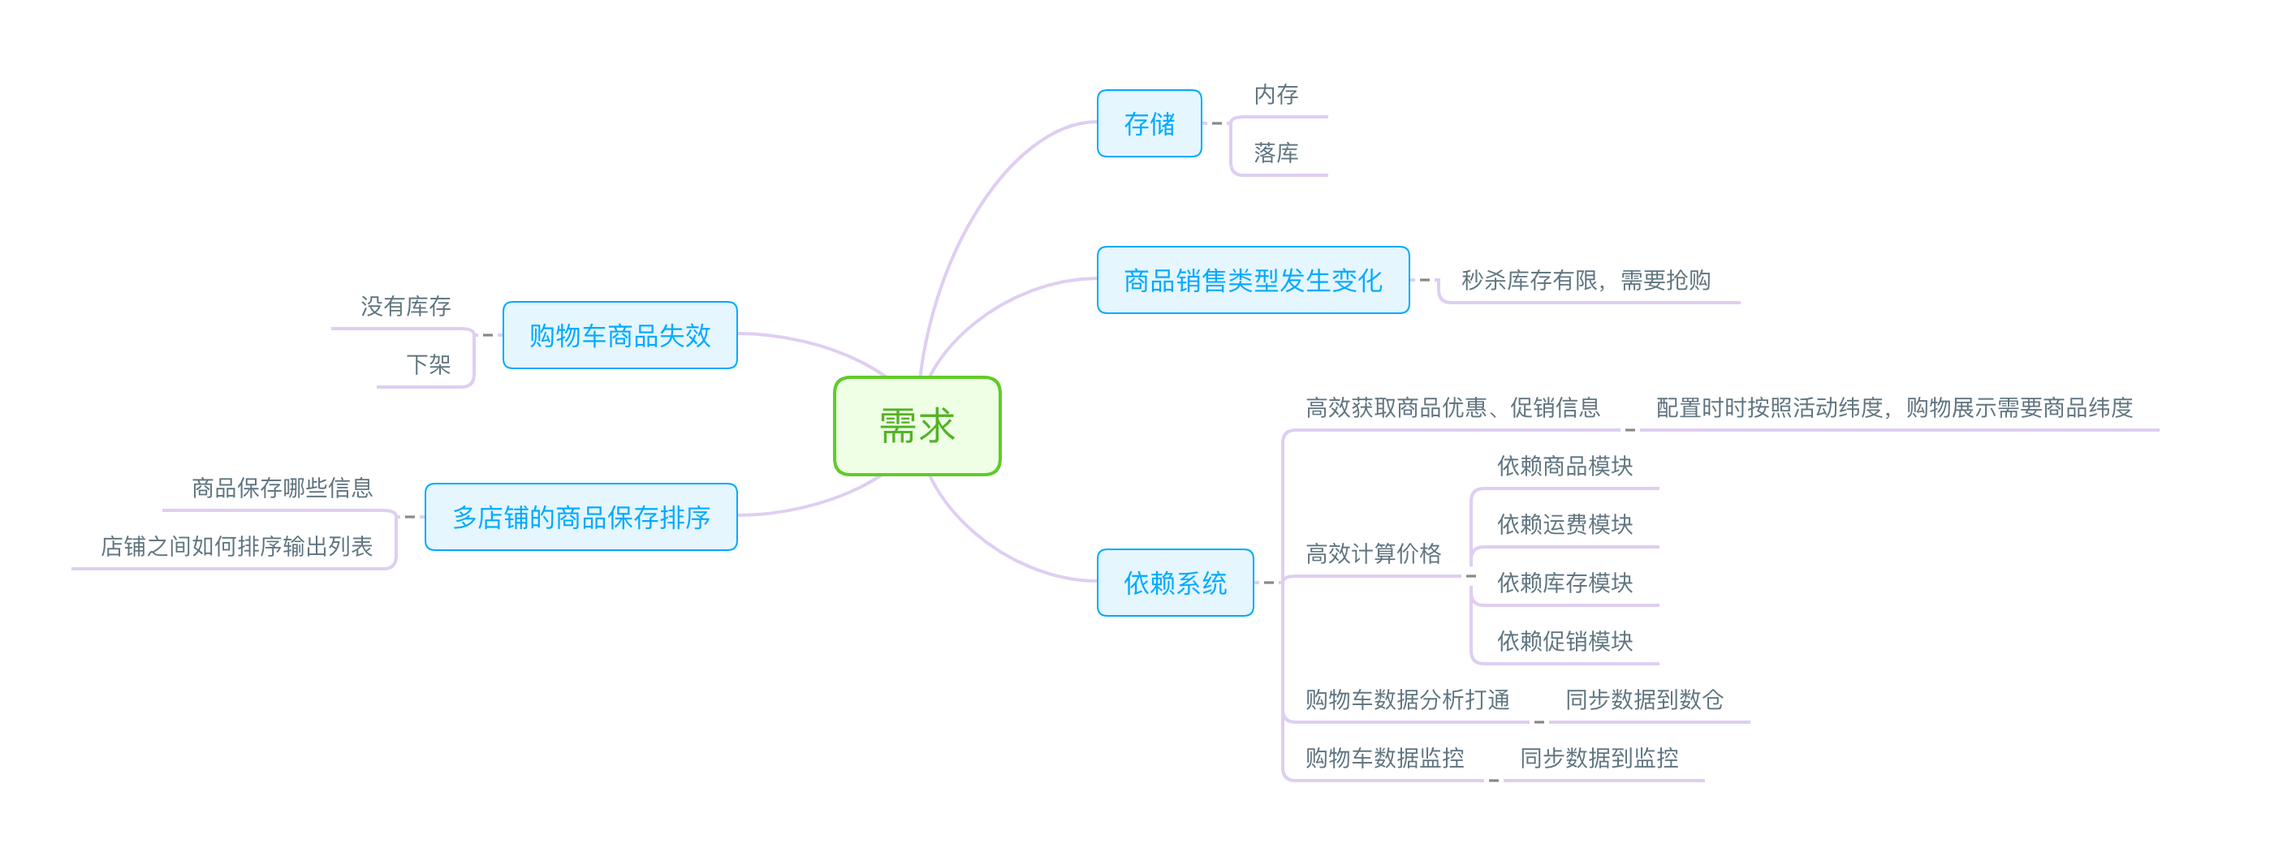
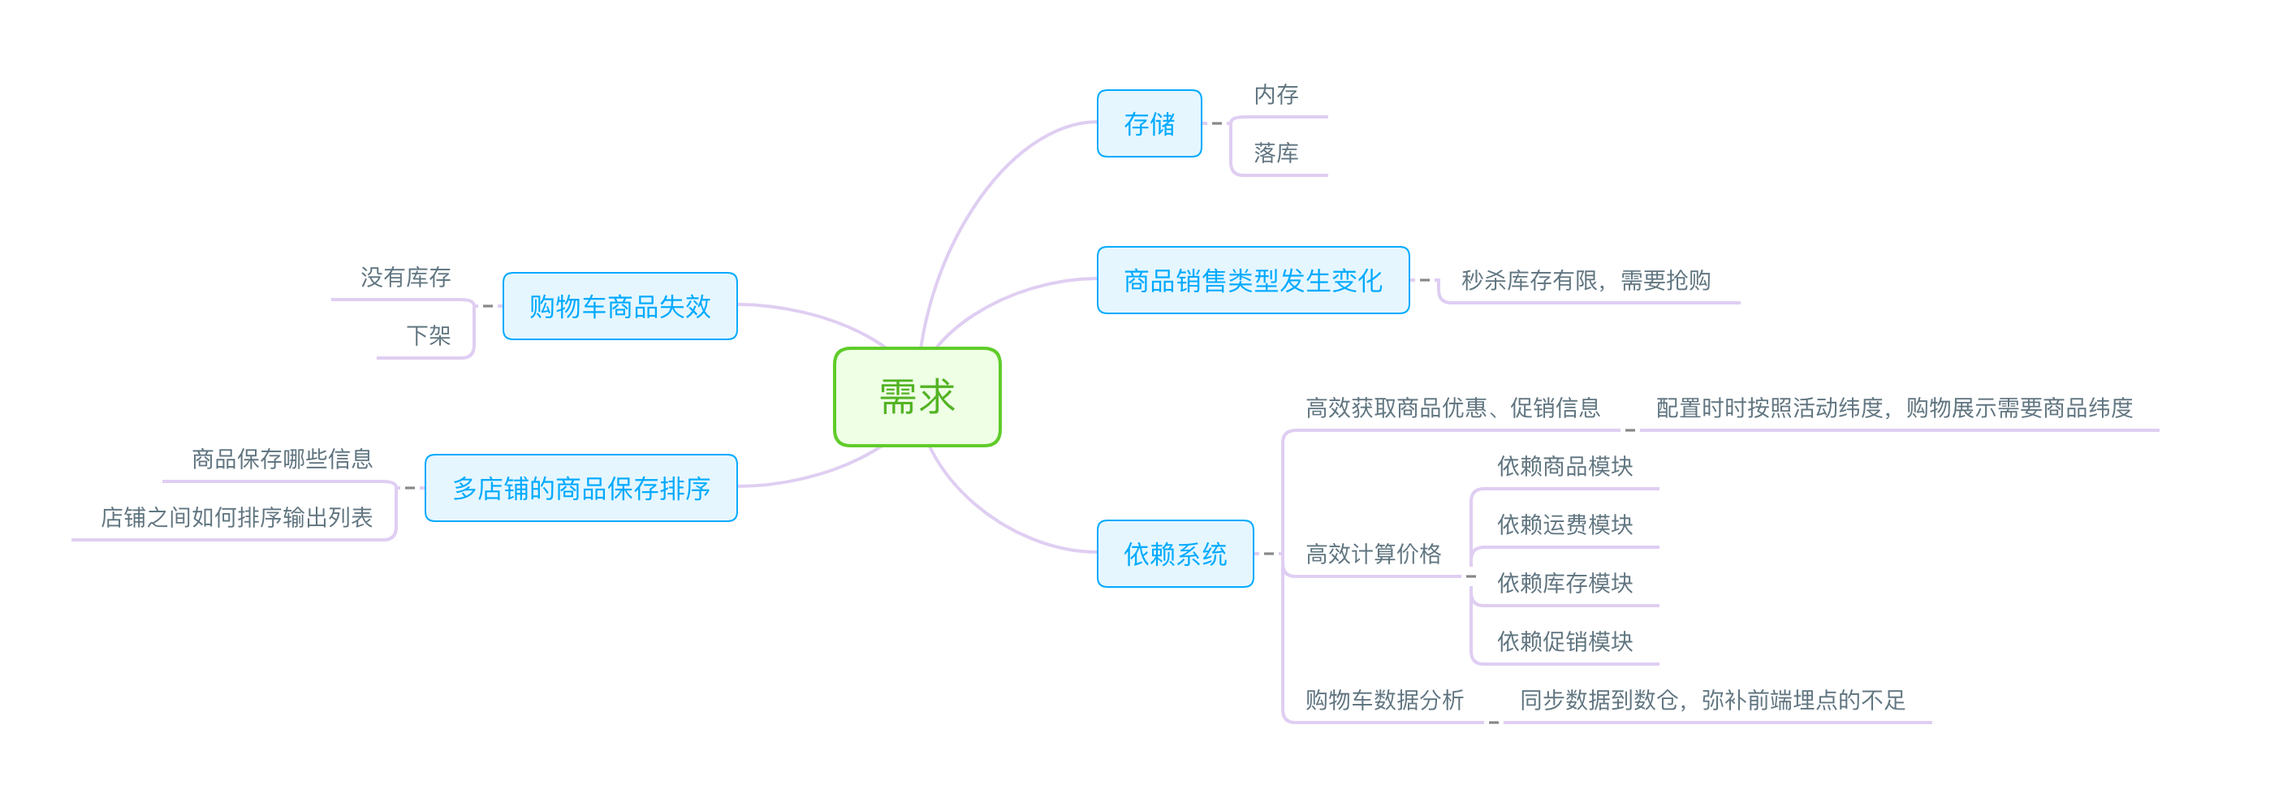
add doc to readme

diff --git a/README.md b/README.md
@@ -801,6 +801,172 @@ menu_id|string|必传|菜单ID
 
 ## 购物车服务
 
+对于一个电商来讲，购物车是整个购买流程最重要的一步。因为电商发展到今天购物车不仅仅只是为了完成打包下单的功能；也是收藏、对比、促销提醒、相关推荐的重要展示窗口。如此多的能力我们该如何设计保证购物车的高性能、以及良好的扩展能力来满足未来的发展呢？
+
+今天开始我们就以一个假定的场景来输出一个购物车设计：某某电商平台，是一个多租户模式（我们前面的诸多设计都是多租户模式），用户可以把商品加入到购物车，并切按照商户纬度来展示、排序。当然购物车也支持常规的各种操作：选择、删除、清空、商品失效等。并且有相关的促销能够提醒用户。同时为了监控、运营，要支撑购物车数据同步到监控、数仓等能力。
+
+本文会从用户使用的角度以及服务端两个角度来讲解系统的能力。本篇我们的主要目的是说清楚购物车的能力以及一些逻辑。下一篇会进行购物车模型设计以及接口定义。
+
+### 用户视角
+
+我们先来定义一下在用户侧用户操作购物车的功能有哪些？
+
+![用户则需求](https://dayutalk.cn/img/user-cart-c.png)
+
+一个购物车基本的能力基本上都在上图中，下面我们一一来分解。
+
+#### 操作
+
+我们从用户的角度来看，购物车对于用户来说可以添加商品到购物车（加购物车、立即购买都属于一种添加方式）；加入进购物车后，不想要了可以删除该商品（删一个、删多个、清空）；想多买可以修改购买数量，发现钱不够可以减少购买数量；或者发现红色的比白色更漂亮，可以在购物车方便的进行更换规格；对于一些价格很贵的商品，能够在购物车添加一些保障服务（其实是绑定的虚拟商品）；在要去结算的时候，还会提供选择能力让用户决定哪些商品真的本次要购买。
+
+通过上面的描述我们可以看到这个过程是有其内在联系的。这里说一下关于选中功能，业界有两种做法，各有优劣，我们来看一下。淘宝的产品选中状态是保存在客户端的，并且默认不选中，刷新、重新打开APP状态会消失；京东、苏宁这一类是保存在服务端，会记录用户选中状态。针对这两种情况各有优劣。
+
+**客户端：**
+
+1. 性能，选中/不选中的逻辑直接放在本地做，减少网络请求
+2. 体验，多端不能同步，但是购物车相对来说更像是一个收藏夹，每次用户自己选择也无可厚非
+3. 计算，价格计算时需要上传本地选中商品（也可以本地计算）
+4. 实现，主要靠客户端实现，与服务端无关，研发解耦合
+
+**服务端：**
+
+1. 性能，每次操作选中都需要调用服务端，而该操作可能很频繁，除了网络损耗，服务端也需要考虑该如何快速找到修改的商品
+2. 体验，多端同步状态，记录历史状态
+3. 计算，服务端可获取数据，请求时无须上传额外数据
+4. 实现，服务端与客户端需要商定如何交互，以及返回数据（每次选中会导致价格变化），耦合在一起
+
+个人认为这两种方式并无谁具备明显优势，完全是一种基于业务模式以及团队情况来做选择。我们这里后续的设计会基于在服务端保存商品选中状态。
+
+在整个操作逻辑中，有个两个比较重要的地方单独说明一下：购买方式与购物车内修改购买属性
+
+##### 购买方式
+
+主要的购买方式有立即购买、加入购物车、拼团购两种方式。
+
+首先普通的加入购物车没什么太多要说的。重点来看下立即购买与拼团。
+
+立即购买在于操作上来说就是选择商品后直接到了订单确认页面，没有购物车中去结算这一步。但是它的实现却可以依赖购物车的逻辑来做，我们来看一下使用购物车与不使用购物车实现这个逻辑有什么差别？
+
+如果使用购物车来实现，也就是用户点击立即购买时，商品本质上还是加入到购物车中，但这个购物车却与原型的购物车不同，因为该购物车只能加一个商品，并且每次操作都会被覆盖。在视角效果上也是直接从商品详情页面跳转到订单确认页面。来看看这种方式的好处
+
+1. 与购物车在订单确认、下单逻辑上一致，内部可以直接通过购物车获取数据
+2. 需要一个独立的专门用于一键购买的购物车来实现，内存有消耗
+
+另外一种实现方式使用一个新的数据结构，因为一般来说一键购买更简单，它只需要商品信息、价格信息即可。每次交互均可以根据sku_id来获取。
+
+1. 订单确认、下单逻辑上需要进行改造，每次请求之间要传递约定参数
+2. 节省内存，上下交互通过sku_id来保证
+
+我们会采用使用在服务端一键购买以独立的购物车形式来实现。购物车的数据模型一致，保证了后续处理流程上的一致。
+
+对于拼团，他其实分为两部分，首先先发团这个信息，当团成立后。我们可以选择将成团的商品加入普通购物车，同时可以加购其它商品。也可以选择将成团商品加入一键购买的购物车，保证成团商品只能买一个。拼团模式更像是加入购物车的一个前置条件。本质上它对于购物车的设计没有影响。
+
+##### 购物车内修改购买属性
+
+这里主要是指可以在购物车便捷的操作一些需要在spu纬度操作的事情，比如：变更规格（也就是更换sku），以及选择绑定到spu纬度的服务（保险、延保等）。
+
+我们重点说一下选择绑定的服务。例如：我们买一个手机，厂家提供了延保、各种其它附加服务，一般情况这种服务都是虚拟商品。但是这有个特殊情况。这些保障服务首先不能单独购买，其次他是跟主商品的数量息息相关。比如买两个手机，如果选择了加购服务，那么这些服务的数量必须是2，这会是一个联动关系。
+
+这些保障服务是不能进行单独购买的，它一定要跟特定的商品捆绑销售。
+
+服务端在存储这部分数据时一定需要考虑如何保存这种层级关系，这部分我们后面模型设计的时候大家会看到。
+
+![绑定商品关系](https://dayutalk.cn/img/product-relations.png)
+
+#### 提醒
+
+促销提醒很简单，返回的购物车数据，每一个商品应该携带当前的促销信息。这部分重点在于怎么获取促销信息，会在服务端看到。
+
+然后说下购物车数量的提醒，也就是显示当前购物车商品的数量。一般来说进入到APP就会调用一个接口，获取用户的未读消息数、购物车商品数等。这里是需要非常高的读取速度。那么这种需求该如何满足呢？
+
+**方案一：** 我们可以设计一个结构保存了用户相关的这种提醒信息数量，每次直接读取这个数据即可。不需要去跟消息服务、购物车服务打交道拿这些数据。
+
+**方案二：** 在消息、购物车的模型中均设计一个保存总数量的字段，在读取数据的接口中，通过并发的方式调用这些服务拿到数据后进行聚合，这样在速度上只取决于最慢的服务。
+
+这里我们的设计会采用 **方案二**，因为这样在某种程度上效率可以得到保证，同时整个系统的结构数据的一致性更容易得到保障。当然这里有个系统一定要注意，并发读取一定要设计超时，不要因为某个服务读数问题而导致拖累整个接口的性能。
+
+接下来再来看看促销，这部分除了提醒，还需要提供对应的入口，让用户完成促销的操作。比如说某个商品有券，那么可以直接提供入口去领取；可凑单，有入口进入凑单列表并选择商品等。这部分需要解决的问题是服务端该如何及时从商品纬度拿到这些促销活动。
+
+从用户的视角看完了，我们再来站在研发的角度看看服务端有哪些事情要做
+
+### 研发视角
+
+还是先来看看需求的汇总图：
+
+![服务端则需求](https://dayutalk.cn/img/user-cart-s.png)
+
+#### 存储
+
+对于存储，首选肯定是内存存储，至于要不要落库，我觉得没有必要。说下我的理由：
+
+1. 购物车的数据相对变化非常频繁，落库成本比较高，如果异步方式落库，很难保障一致性
+2. 极端情况，cache奔溃了，仅仅需要用户重新加入购物车，并且我们可以通过cache的持久化机制来保证数据的恢复
+
+所以对于购物车，我们只会把数据完全保存在内存中。
+
+#### 商品销售类型发生变化
+
+现在我们来讨论 **商品销售类型发生变化** 这个问题。这是什么意思呢？大家想一下：比如我把A商品加入到购物车，但是一直没有结算。这时运营说针对A商品搞一个活动，拿出10个库存5折购。那么问题来了，对于之前购物车中就有该商品的用户该如何处理？**这里解决的主要问题是：购物车有该商品的用户不能直接以5折买**。几种方案，我们来看一下：
+
+**方案一：** 促销配置后，所有购物车中有该商品的用户失效或删除，这个方案首先被pass，操作成本太高，并且用户体验差
+
+**方案二：** 购物车中要区分同一个SKU，不同销售类型。也就是说在我们的购物车中不是按照SKU的纬度来加商品，而是通过 **SKU+售卖类型** 来生成一个唯一识别码。
+
+可以看到 **方案二** 解决了同一个sku在购物车并存的问题，并且库存之前互相不影响。不过这里又有一个问题？商品的售卖类型（或者说这个标记），该怎么什么地方设置？好像商品系统可以设计、促销系统也可以设置。我们的逻辑中会在促销系统中进行配置。因为商品属于基础逻辑，如果一改就是全局库存受到影响。活动结束后很难做到自动正常售卖。因此这个标记应该落到活动中进行设置（活动设置时会通过促销系统获取该商品之前的活动是否互斥，以确保配置的活动不会互相矛盾）。
+
+#### 依赖系统
+
+购物车系统依赖了非常多的其它系统。
+
+- 购物车监控
+- 数据分析
+- 商品系统
+- 库存系统
+- 促销系统
+- 结算系统
+
+这些依赖的系统，有的是为了传输数据，有的是为了获取数据。我们按照这两个纬度来看一下。
+
+##### 购物车数据分析
+
+对于购物车数据来说，前端会通过埋点记录加入购物车数据的情况，但是前端埋点一般是记录触发了某个前端操作，但是并不知道该操作是否成功与否。以及无法及时了解当前整体购物车的数据情况。
+
+为了让运营团队更完整的了解购物车当前情况，我们通过后端埋点的方式，将数据记录到本机文件，然后通过日志收集的方式将日志同步给数据收集服务。
+
+##### 促销提醒与计算
+
+还剩下服务端要解决的是促销的提醒与价格计算问题。
+
+现来说计算，针对这部分最佳的方式是，调用结算中心的价格计算。我们来看一下购物车中的价格计算与订单结算时的价格计算的差异。
+
+首先购物车中计算价格时不知道用户的地址，这会影响运费的计算；再是不知道用券的情况。那么其实如果解决了这两个问题，我们就可以让价格计算出自同一个逻辑，仅仅是部分入参不同罢了。因此我们这里计算时可以按照最高运费来计算，同时用券默认在购物车都不使用券。对于促销问题这里是可以通过促销系统确认选中的商品可以享受哪些价格的。因此促销的价格应该计算在内。
+
+接下来在再来说说如何为用户高效的提供促销的信息。先从我们的配置视野出发。
+
+我们在配置一个促销活动或者发一张券时，都是将多个商品归到一个促销活动或者券的下面。如果按照活动、券的纬度来获取商品效率相对比较高。
+
+![活动-商品](https://dayutalk.cn/img/activity-product.png)
+
+但是在购物车的场景中发生了一个变化。我们是需要从商品纬度获取到该商品的所有活动信息（全平台活动、店铺活动）；
+那么购物车中为了展示这些信息该怎么做？很常规的一个做法（也确实不少公司是这样）：把所有活动信息取出来，遍历出所有跟该商品相关的信息。这种做法效率很低，并且无法满足大规模的应用场景，比如双十一期间。
+
+因此这里为了满足该需求，促销系统需要提供一个能力按照商品获取对应促销（活动、券）。因此一般来讲促销系统配置的活动不能仅仅是按照活动纬度存储，同时还需要生成一份商品纬度的促销信息。
+
+![商品-活动](https://dayutalk.cn/img/product-activity.png)
+
+#### 失效与排序
+
+还有两个小部分没有讲到，一是商品该如何失效，比如：库存没有了、下架了；二是购物车中的商品是多个店铺的，排序的策略是什么？
+
+由于本文我们还只是讨论需求，不涉及具体的模型设计，因此只是介绍方案。首先是商品失效，这很像一个软删除操作，一旦设置，用户侧看到的商品将是无法进行结算的，只能进行删除操作。
+
+对于排序我们会采用的设计是：根据某个店铺在购物车中最后发生操作的时间，最新的操作肯定在最上面。
+
+### 结尾
+
+通过上面我们基本上搞清楚了购物车设计中我们要做什么，依赖的系统要提供什么能力。下篇开始进入数据模型的设计、前后端接口设计。
+
+如果你对购物车上面的需求还有哪些补充，欢迎留言。我们一起来完善。
 
 
 ## 商品系统

diff --git a/material/Dayu/cart/cart-requirement.md b/material/Dayu/cart/cart-requirement.md
@@ -30,7 +30,7 @@
 1. 性能，每次操作选中都需要调用服务端，而该操作可能很频繁，除了网络损耗，服务端也需要考虑该如何快速找到修改的商品
 2. 体验，多端同步状态，记录历史状态
 3. 计算，服务端可获取数据，请求时无须上传额外数据
-4. 实现，服务端与客户端需要商定如何交互，以及返回数据（每次选中会导致价格变化），耦合再一起
+4. 实现，服务端与客户端需要商定如何交互，以及返回数据（每次选中会导致价格变化），耦合在一起
 
 个人认为这两种方式并无谁具备明显优势，完全是一种基于业务模式以及团队情况来做选择。我们这里后续的设计会基于在服务端保存商品选中状态。
 
@@ -42,7 +42,7 @@
 
 首先普通的加入购物车没什么太多要说的。重点来看下立即购买与拼团。
 
-立即购买在于操作上来说就是选择商品后直接到了订单确认页面，没有购物车中去结算这一步。但是它的实现确可以依赖购物车的逻辑来做，我们来看一下使用购物车与不使用购物车实现这个逻辑有什么差别？
+立即购买在于操作上来说就是选择商品后直接到了订单确认页面，没有购物车中去结算这一步。但是它的实现却可以依赖购物车的逻辑来做，我们来看一下使用购物车与不使用购物车实现这个逻辑有什么差别？
 
 如果使用购物车来实现，也就是用户点击立即购买时，商品本质上还是加入到购物车中，但这个购物车却与原型的购物车不同，因为该购物车只能加一个商品，并且每次操作都会被覆盖。在视角效果上也是直接从商品详情页面跳转到订单确认页面。来看看这种方式的好处
 
@@ -56,13 +56,13 @@
 
 我们会采用使用在服务端一键购买以独立的购物车形式来实现。购物车的数据模型一致，保证了后续处理流程上的一致。
 
-对于拼团，他其实分为两部分，首先先发团这个信息，当团成立后。我们可以选择将成团的商品加入普通购物车，同时可以加够其它商品。也可以选择将成团商品加入一键购买的购物车，保证成团商品只能买一个。拼团模式更像是加入购物车的一个前置条件。本质上它对于购物车的设计没有影响。
+对于拼团，他其实分为两部分，首先先发团这个信息，当团成立后。我们可以选择将成团的商品加入普通购物车，同时可以加购其它商品。也可以选择将成团商品加入一键购买的购物车，保证成团商品只能买一个。拼团模式更像是加入购物车的一个前置条件。本质上它对于购物车的设计没有影响。
 
 ### 购物车内修改购买属性
 
 这里主要是指可以在购物车便捷的操作一些需要在spu纬度操作的事情，比如：变更规格（也就是更换sku），以及选择绑定到spu纬度的服务（保险、延保等）。
 
-我们重点说一下选择绑定的服务。例如：我们买一个手机，厂家提供了延保、各种其它附加服务，一般情况这种服务都是虚拟商品。但是这有个特殊情况。这些保障服务首先不能单独购买，其次他是跟主商品的数量息息相关。比如买两个手机，如果选择了加够服务，那么这些服务的数量必须是2，这会是一个联动关系。
+我们重点说一下选择绑定的服务。例如：我们买一个手机，厂家提供了延保、各种其它附加服务，一般情况这种服务都是虚拟商品。但是这有个特殊情况。这些保障服务首先不能单独购买，其次他是跟主商品的数量息息相关。比如买两个手机，如果选择了加购服务，那么这些服务的数量必须是2，这会是一个联动关系。
 
 这些保障服务是不能进行单独购买的，它一定要跟特定的商品捆绑销售。
 
@@ -124,15 +124,11 @@
 
 这些依赖的系统，有的是为了传输数据，有的是为了获取数据。我们按照这两个纬度来看一下。
 
-### 购物车与数据分析
+### 购物车数据分析
 
-为了完成监控与数据分析，我们必须找到一种解决办法把数据发送给监控系统与数据分析系统。当然也可以推拉结合的方式。但是由于购物车的数据是用户纬度的，如果主动拉取需要有机制来告知对方系统数据发生变化。或者每次全量拉去，这都不是优雅的方式。
+对于购物车数据来说，前端会通过埋点记录加入购物车数据的情况，但是前端埋点一般是记录触发了某个前端操作，但是并不知道该操作是否成功与否。以及无法及时了解当前整体购物车的数据情况。
 
-确定了采用推的方式交互数据，接下来是怎么推的问题。同步还是异步？
-
-我推荐的一种做法是：购物车数据被服务端接受后，完成业务逻辑就直接返回，通过一个 **goroutine** 写入到MQ，监控与数据服务通过订阅消息来写入到自己存储中。
-
-![购物车依赖](./imgs/cart-monitor-data.png)
+为了让运营团队更完整的了解购物车当前情况，我们通过后端埋点的方式，将数据记录到本机文件，然后通过日志收集的方式将日志同步给数据收集服务。
 
 ### 促销提醒与计算
 
@@ -142,7 +138,7 @@
 
 首先购物车中计算价格时不知道用户的地址，这会影响运费的计算；再是不知道用券的情况。那么其实如果解决了这两个问题，我们就可以让价格计算出自同一个逻辑，仅仅是部分入参不同罢了。因此我们这里计算时可以按照最高运费来计算，同时用券默认在购物车都不使用券。对于促销问题这里是可以通过促销系统确认选中的商品可以享受哪些价格的。因此促销的价格应该计算在内。
 
-接下来在再来说说如何为用户高效的提供促销的信息。先从我们的配置夜视出发。
+接下来在再来说说如何为用户高效的提供促销的信息。先从我们的配置视野出发。
 
 我们在配置一个促销活动或者发一张券时，都是将多个商品归到一个促销活动或者券的下面。如果按照活动、券的纬度来获取商品效率相对比较高。
 
